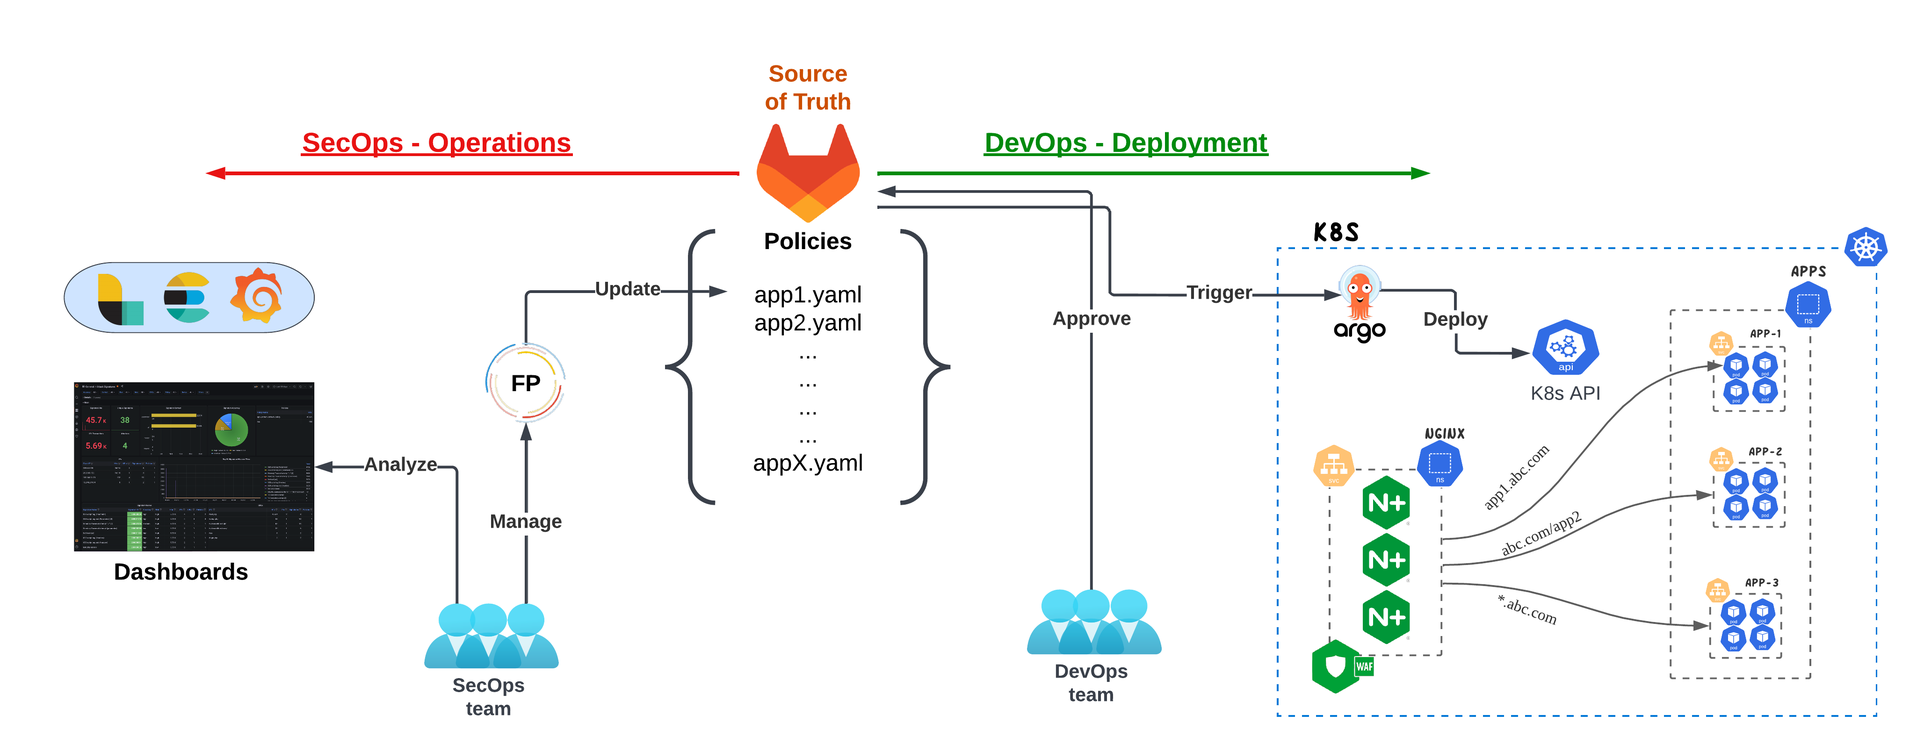
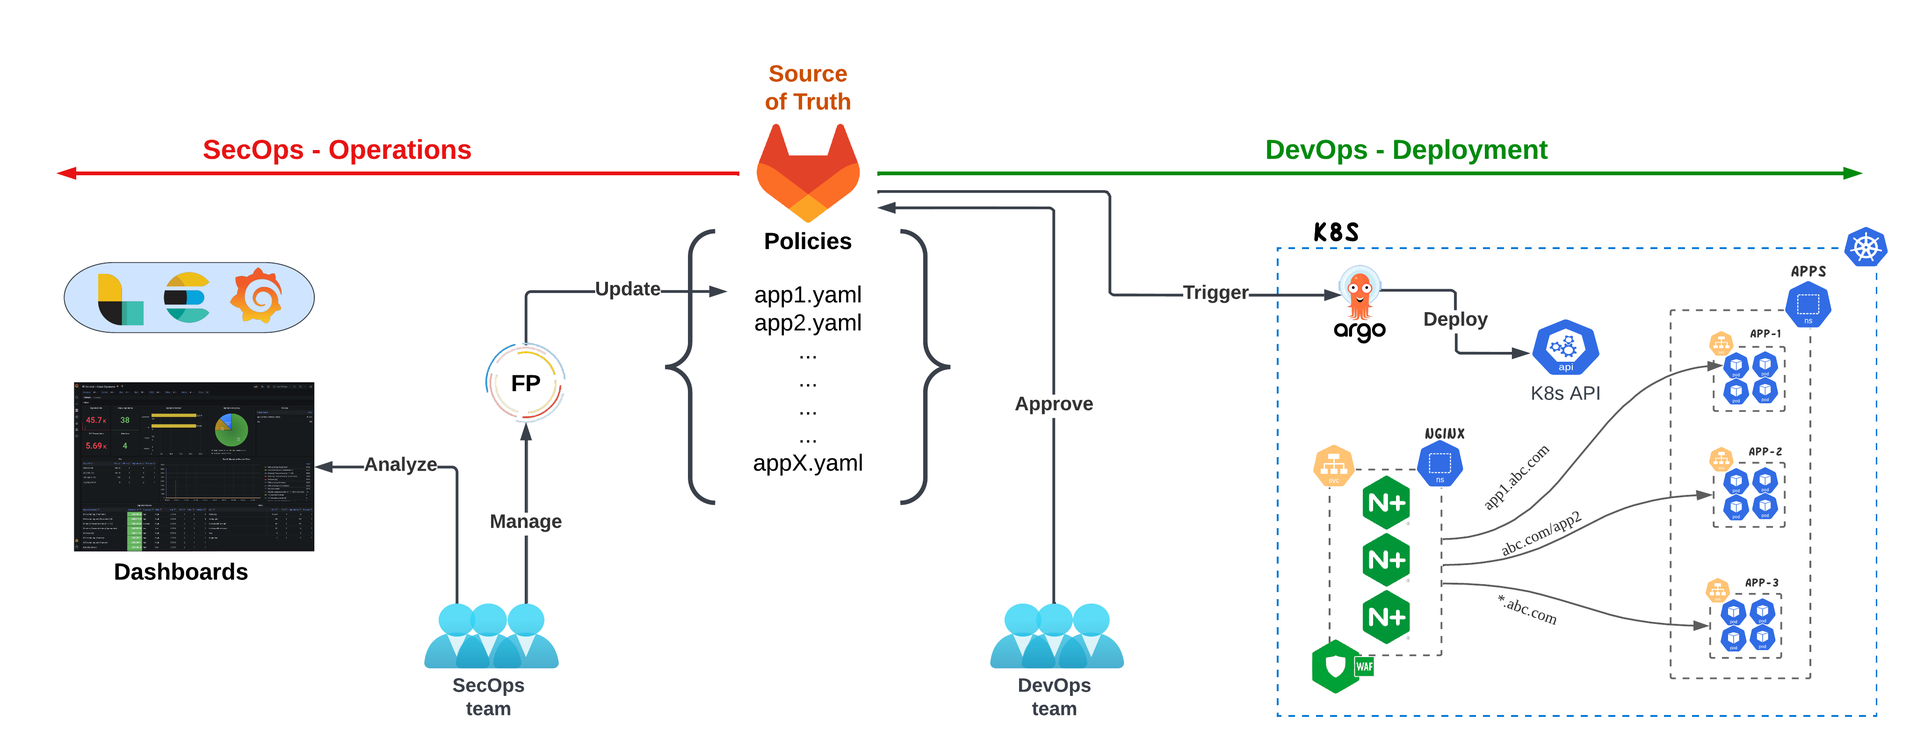
update nap use-cases

diff --git a/use-cases/app-protect/devsecops-k8s/README.md b/use-cases/app-protect/devsecops-k8s/README.md
@@ -1,25 +1,29 @@
-# (Work in progress) Building an infrastructure for DevSecOps with NGINX Ingress Controller
-With more and more application workloads moving into Kubernetes, creating an agile, flexible, /multi-cloud (cluster) infrastructure, orginizations are looking into moving also the Web Application Firewall (WAF) security controls inside the Kubernetes environment. This would allow them to continue their modernization journey without compromising security. 
-What we are seeing as a common practice in Medium/Large orginizations that are adapting this strategy is to have the SecOps and the DevOps teams work closer together, but each team maintains their own goals and responsibilities.  
+# Building a DevSecOps infrastructure with NGINX Ingress Controller
+With more and more application workloads moving into Kubernetes, organizations are looking into moving also their security controls, inlcuding Web Application Firewall (WAF), inside the Kubernetes environment. This would allow them to continue their modernization journey, creating an agile, elastic and distributed infrastructure without compromising security. 
+In order to achieve this, organizations are having the SecOps and DevOps teams working closer together, each team maintaining their own goals and responsibilities  
 
-SecOps responsibilities in terms of the WAF policies are:
+SecOps responsibilities are:
 - Identifying the security controls required by the applications.
-- Creating different secrity templates based on the security controls.
 - Maintaining/Managing the policies that have been applied in production.
+- Creating WAF templates based on the selected security controls that the devops teams can consume.
 
-DevOps responsibilities in terms of the WAF policies are:
+DevOps responsibilities are:
 - Consume the security templates as a service.
 - Include the security policies as part of their code.
-- Include the security policies as part of their CI/CD lifecycle.
+- Maintain the same speed and agility, by integrating the security policies on the CI/CD pipelines.
+
+## Table of Contents 
+- [**Required Components**](#required-components)
+- [**Demo**](#demo)
 
 
-## What is required?
-In order to build an infrastructure that can accomodate for both SecOps and DevOps personas, we will need the following:
+## Required Components
+In order to build an infrastructure that can accomodate for both SecOps and DevOps, we will need the following:
 
+- Ingress Controller with Web Application Firewall module
 - Git repository 
 - Observability Platform
 - Policy Management Process
-- NGINX Ingress Controller with App Protect enabled.
 - CI/CD tool(s)
 
 <p align="center">
@@ -27,38 +31,53 @@ In order to build an infrastructure that can accomodate for both SecOps and DevO
 </p>
 
 
-### Git repository
-Git will be utilized as the single **source of truth** where the SecOps and DevOps will store their code. Git will be used as a way to track code/version changes in the code, allow the teams (SecOps & DevOps)  to work together through reviews and comments on Merge Requests and also provide an audit log where all assignees and reviewers are indicated. 
+### Ingress Controller with WAF
+Ingress Controller (IC) is the gateway to the applications that live inside the Kubernetes platform. Whether it is Ingress, Routes, or custom resources like VirtualServer and VirtualServerRoute, Ingress Controller is most common way to achieve application traffic routing and provide a bridge between Kubernetes services and external ones.
+Having a WAF enabled on the Ingress controller layer, is the most effient way to apply the security controls inside Kubernetes   
 
-In our environment we are using GitLab. The design is fairly straightforward as we will maintain one repository for the NGINX App Protect resources and a separate repository for each application, that will include resources like Deployments, Services, Ingress Rules, Configmaps, etc.  
-For our Demo we will use the following two repositories:
-
-- **devsecops/nap** for the NAP resources
-- **devsecops/cafe** for the Application resources
-
-### Monitoring security events
-We have deployed Logstash/Elastic/Grafana to build a observability dashboard for the NAP events. All the NGINX App Protect instances will send their events/logs to the observability platform so that the SecOps teams can have a single Dashboard that they can monitor all the security events.
+In our environment we will be using NGINX App Protect WAF module, that can be configured as part of Ingress Resources (via an Annotation) or as pat of Custom Resources (VirtualServer, VirtualServerRoute). 
 
 <p align="center">
-  <img src="images/dashboard.png" style="width:90%">
+  <img src="images/nap-on-k8s.png" style="width:50%">
+</p>
+
+
+
+### Git repository
+Git should be utilized as the single **source of truth** where the SecOps and DevOps will store their respective code. Git is the most popular and widely used version control system today. It has many benefits like code changes can be easily committed, version branches can be effortlessly compared and merged, and code can also be optimized to perform better. 
+Git would enable the DevOps and SecOps team to work better and closer together by:
+- Allowing them to track changes in their code, 
+- Review, comment and approve with Merge Requests
+- Provide an audit log where all assignees and reviewers are indicated. 
+
+
+### Observabilty platform
+Building an observability platform is essential for managing a Web application Firewall solution. The data collected from the Ingress Controller pods can help the SecOps teams determine the threats/risks assosiated with the published applications.
+For our demo we deployed Logstash/Elastic/Grafana to build the observability platform for the NGINX App Protect. All the NAP pod instances will send their events/logs to the observability platform so that the SecOps teams can have a single Dashboard that they can monitor all the security events.
+
+<p align="center">
+  <img src="images/dashboard.png" style="width:70%">
 </p>
 
 More information regarding NAP Grafana Dashboard can be found on the [**NAP Dashboard**](https://github.com/F5EMEA/oltra/tree/main/use-cases/app-protect/monitoring) lab
 
+
 ### Managing NAP policies
-An important part of the WAF policy lifecycle, is managing potential False Positives (FP). Although NAP’s algorithms try to minimize the chance that we would have false positive in our production environments it is always a possibility that the SecOps teams need to be prepared for.
-The Grafana operational Dashboards through its aggregation and visualization provide to the SecOps teams an easy and quick way to identify any false positives.
+An important part of the WAF policy lifecycle, is managing potential False Positives. Although NAP’s algorithms try to minimize the chance that we would have false positives in our production environments it is always a possibility that the SecOps teams need to be prepared for.
+The observability platform plays a critical role on assisting the SecOps teams to identify false positives, by aggregating and visualizating the metrics/events that are collected from the multiple NAP Pods.
+
 To convert a violation into a false positive exception on the NAP configurations, the SecOps teams have to modify the NAP policy with the required YAML key/value pairs. The example below shows how a policy needs to be modified to exclude particular signatures from a policy.
 
 <p align="center">
   <img src="images/policy-modify.png" style="width:70%">
 </p>
 
-There are mulitple ways that the NAP policies can be fine-tuned based on the events that have been Blocked/Alarmed.
-- **Manual**. SecOps teams can edit the JSON/YAML files that are stored on GitLab
-- **Automation**. Tools like Ansible, Jenkins and many others can enable the SecOps team to insert the required changes (like disabled a signatureID) into the YAML files stored on GitLab
-- **OpenSource**. The other alternative is to develop or use an opensource tool that is designed specifically for modifying NAP policies based on the recorded events. In this demo we will use an Opensource tool, NAP-FPM to modify the policies. Details on this tool can be found on the following repository [**NAP Policy Management**](https://github.com/f5devcentral/nap-policy-management).  
+There are mulitple ways for the NAP policies to be fine-tuned based on the events that have been Blocked/Alarmed. Some of the common ways are:
+- **Manual**. SecOps teams can edit manually the JSON/YAML files that are stored on GitLab.
+- **Automated**. Tools like Ansible, Puppet, Terraform and many others can provide an automated procedure for the SecOps to make the necessary changes on the YAML policies stored on GitLab
+- **Purpose-built**. The other alternative is to develop or use an opensource project that is designed specifically for modifying NAP policies based on the recorded events. 
 
+In this demo we will be using a purpose-built opensource project, NAP-FPM, to modify the policies. Details on this project can be found on the following repository [**NAP Policy Management**](https://github.com/f5devcentral/nap-policy-management).  
 
 This project has a simple UI build on PHP, that retrieves the violation log from Elasticsearch based on the SupportID requested and presents the user the summary of the event
  
@@ -66,31 +85,24 @@ This project has a simple UI build on PHP, that retrieves the violation log from
   <img src="images/fpm.png" style="width:60%">
 </p>
 
-Depending on the violations that were identified on the violation log, the tool provides the user with the option of executing preconfigured actions, of example `Disable Signature`, `Disable Signature on URL`.
-Once the user confirms the details and sends the required information to the application endpoint, that will execute the required changes.
+Depending on the violations that were identified on the NAP log, the tool provides the user predefined actions for disabling these violations. For example, as seen on the above picture, `Disable Signature` and `Disable Signature on URL`.
 
 <p align="center">
-  <img src="images/fpm2.png" style="width:40%">
+  <img src="images/fpm-false.png" style="width:40%">
 </p>
 
-The application is configured to pull the current policy from GitLab, make the required changes on the policy’s YAML file and save it back to GitLab.
-
-### NGINX Ingress Controller with App Protect enabled.
-NGINX App Protect WAF module can be configured on the Custom Resources (VirtualServer, VirtualServerRoute) or on the Ingress-resources. In our example we will be using VirtualServer custom resources. The NGINX custom resources (VirtualServer, Policy) along with the application Deployment and Service will be configured on the `devops` namespace while the WAF resources APPolicy, APLogConf will be configured on the `secops` namespace. The NGINX Policy is able to work with APPolicy and APlogConf cross-namespaces.
-
-<p align="center">
-  <img src="images/namespaces.png" style="width:80%">
-</p>
+Once the user confirms the details and the tool is configured to pull the current policy from GitLab, make the required changes on the policy’s YAML file and save it back to GitLab.
 
 
 ### CI/CD tool
-Each customer is using different methodologies and potentially different tools to implent their CI/CD pipelines. In our case, since we are not doing any intergations, testing, approval flows, etc that would require a CI tool, we are using Argo CD for the Continuous Delivery.
-Argo CD is implemented as a kubernetes controller which continuously monitors running applications and compares the current, live state against the desired target state (as specified in the Git repo). Any modifications made to the desired target state in the Git repo can be automatically applied and reflected in the target Kubernetes environments.
+Each customer is using different methodologies and potentially different tools to implent their CI/CD pipelines. In our demo, we are mainly interested to reflect any modifications made to the 2 repositories (**devsecops/nap** and **devsecops/apps**) to the Kubernetes environment.
+For this task, we will be using Argo CD. Argo CD is implemented as a kubernetes controller which continuously monitors running applications and compares the current, live state against the desired target state (as specified in the Git repo). Any modifications made to the desired target state in the Git repo can be automatically applied and reflected in the target Kubernetes environments.
 With Argo CD we can overwrite any configuration drift, manual changes, and/or errors, ensuring that the environment converges on the state as defined in Git.
 
 <p align="center">
   <img src="images/argocd-ui.gif" style="width:70%">
 </p>
+
 
 
 ## Demo
@@ -99,12 +111,37 @@ In order to successfully go through the demo below, we suggest you first complet
 - [**Argo CD**](https://github.com/F5EMEA/oltra/tree/main/use-cases/app-protect/argocd)
 
 
-### Initial Deployment
-Currently all Kubernetes manifests have been configured on the 2 repositories. 
-- **devsecops/nap**
-- **devsecops/cafe**
+### 1. Reviewing the manifests stored in GitLab 
+In our environment we are using GitLab. The design is fairly straightforward and it is based on two repositories. The first repository will be for the NGINX App Protect resources (APPolicy, APLogConf) where the SecOps team will be resposible for and the second repository will be for the application resources (Deployments, Services, Ingress Rules, Configmaps, etc.) where the DecOps team will be resposible for.
+The following two repositories will be used:
 
-> You can review the files by logging on to GitLab. 
+- **devsecops/nap** for the NAP resources
+- **devsecops/apps** for the Application resources
+
+We will be using VirtualServer CR. The NGINX custom resources (VirtualServer, Policy) along with the application Deployment and Service will be configured on the `apps` namespace while the WAF resources `APPolicy`, `APLogConf` will be configured on the `secops` namespace. The NGINX Policy is able to work with `APPolicy` and `APlogConf` cross-namespaces.
+
+<p align="center">
+  <img src="images/namespaces.png" style="width:70%">
+</p>
+
+
+Currently all Kubernetes manifests have been configured on the 2 repositories. 
+
+1. Log on to GitLab and review the manifests for both repos. 
+
+<p align="center">
+  <img src="images/nap-gitlab.gif" style="width:70%">
+</p>
+
+
+2. Verify that a GitLab webhook is already configured to notify Argo CD for any changes on the code.  
+Go to repository under **Settings** -> **Webhooks** and scroll to the end. You should see a webhook already created for Argo CD (`https://10.1.10.18/api/webhook`)  
+
+<p align="center">
+  <img src="images/webhook.png" style="width:70%">
+</p>
+
+### 2. Continuous Deployment with ArgoCD 
 
 1. First we will deploy the NAP policies to Kubernetes. To do that we will create a new application on Argo CD for the **devsecops/nap** repository.
 
@@ -120,25 +157,26 @@ Currently all Kubernetes manifests have been configured on the 2 repositories.
   - Cluster URL -> **https://kubernetes.default.svc**
   - Namespace  -> **secops**
 
-    Press `Create` and wait to see that the Argo CD application being created.
+  Press `Create` and wait to see that the Argo CD application being created.
 
 <p align="center">
-  <img src="images/argocd-ui.gif" style="width:70%">
+  <img src="images/nap-argo.gif" style="width:70%">
 </p>
 
-2. Secondly we will deploy the Application/Ingress manifests to Kubernetes. To do that we will create a new application on Argo CD for the **devsecops/nap** repository.
+
+2. Then we will deploy the Application manifests. To do that we will create a new application on Argo CD for the **devsecops/apps** repository.
 
   Find below the information that needs to inserted in the form. 
   
-  - Application Name -> **nap-policies**
+  - Application Name -> **apps**
   - Project -> **default**
   - Sync Policy -> **Automatic**
   - Prune Resources -> **Enabled**
-  - Repository URL -> **https://git.f5demo.cloud/devsecops/cafe.git**
+  - Repository URL -> **https://git.f5demo.cloud/devsecops/apps.git**
   - Revision -> **HEAD**
   - Path -> **.**
   - Cluster URL -> **https://kubernetes.default.svc**
-  - Namespace  -> **devops**
+  - Namespace  -> **apps**
 
     Press `Create` and wait to see that the Argo CD application being created.
 
@@ -150,9 +188,9 @@ Currently all Kubernetes manifests have been configured on the 2 repositories.
 3. Verify that you can succesfully access the application. Go to VSCode and run the following commands
 
 ```
-curl "http://cafe.f5demo.cloud/tea/"
-curl "http://cafe.f5demo.cloud/coffee/"
-curl "http://cafe.f5demo.cloud/"
+curl "http://portal.f5demo.cloud/tea/"
+curl "http://portal.f5demo.cloud/coffee/"
+curl "http://portal.f5demo.cloud/"
 
 ###############################################################
 #####################  EXPECTED OUTPUT  #######################
@@ -166,108 +204,97 @@ Request ID: 0495d6a17797ea9776120d5f4af10c1a
 
 
 ### Running Malicious requests against the application
-Run the following commands to execute some malicious requests towards the website.
+1. Run the following commands to execute some malicious requests towards the website.
 
 ```
-curl "http://cafe.f5demo.cloud/index.php?password=0%22%20or%201%3D1%20%22%0A"
-curl "http://cafe.f5demo.cloud/tea/index.php?password==0'%20or%205=5'"
-curl "http://cafe.f5demo.cloud/tea/index.php?id=%'%20or%200=0%20union%20select%20null,%20version()%23"
-curl "http://cafe.f5demo.cloud/index.php?username=<script>"
-curl "http://cafe.f5demo.cloud/coffee/index.php?id=0;%20ls%20-l"
-curl "http://cafe.f5demo.cloud/index.php?password=0%22%20or%201%3D1%20%22%0A"
-curl "http://cafe.f5demo.cloud/index.php?password==0'%20or%201=1'"
-curl "http://cafe.f5demo.cloud/coffee/index.php?id=%'%20or%200=0%20union%20select%20null,%20version()%23"
-curl "http://cafe.f5demo.cloud/index.php?username=<script>"
-curl "http://cafe.f5demo.cloud/index.php?id=0;%20ls%20-l"
-curl "http://cafe.f5demo.cloud/index.php?password=0%22%20or%201%3D1%20%22%0A"
-curl "http://cafe.f5demo.cloud/tea/index.php?password==0'%20or%205=5'"
-curl "http://cafe.f5demo.cloud/tea/index.php?id=%'%20or%200=0%20union%20select%20null,%20version()%23"
-curl "http://cafe.f5demo.cloud/index.php?username=<script>"
-curl "http://cafe.f5demo.cloud/coffee/index.php?id=0;%20ls%20-l"
-curl "http://cafe.f5demo.cloud/index.php?password=0%22%20or%201%3D1%20%22%0A"
-curl "http://cafe.f5demo.cloud/index.php?password==0'%20or%201=1'"
-curl "http://cafe.f5demo.cloud/coffee/index.php?id=%'%20or%200=0%20union%20select%20null,%20version()%23"
-curl "http://cafe.f5demo.cloud/index.php?username=<script>"
-curl "http://cafe.f5demo.cloud/index.php?id=0;%20ls%20-l"
+curl "http://portal.f5demo.cloud/index.php?password=0%22%20or%201%3D1%20%22%0A"
+curl "http://portal.f5demo.cloud/tea/index.php?password==0'%20or%205=5'"
+curl "http://portal.f5demo.cloud/tea/index.php?id=%'%20or%200=0%20union%20select%20null,%20version()%23"
+curl "http://portal.f5demo.cloud/index.php?username=<script>"
+curl "http://portal.f5demo.cloud/coffee/index.php?id=0;%20ls%20-l"
+curl "http://portal.f5demo.cloud/index.php?password=0%22%20or%201%3D1%20%22%0A"
+curl "http://portal.f5demo.cloud/index.php?password==0'%20or%201=1'"
+curl "http://portal.f5demo.cloud/coffee/index.php?id=%'%20or%200=0%20union%20select%20null,%20version()%23"
+curl "http://portal.f5demo.cloud/index.php?username=<script>"
+curl "http://portal.f5demo.cloud/index.php?id=0;%20ls%20-l"
+curl "http://portal.f5demo.cloud/index.php?password=0%22%20or%201%3D1%20%22%0A"
+curl "http://portal.f5demo.cloud/tea/index.php?password==0'%20or%205=5'"
+curl "http://portal.f5demo.cloud/tea/index.php?id=%'%20or%200=0%20union%20select%20null,%20version()%23"
+curl "http://portal.f5demo.cloud/index.php?username=<script>"
+curl "http://portal.f5demo.cloud/coffee/index.php?id=0;%20ls%20-l"
+curl "http://portal.f5demo.cloud/index.php?password=0%22%20or%201%3D1%20%22%0A"
+curl "http://portal.f5demo.cloud/index.php?password==0'%20or%201=1'"
+curl "http://portal.f5demo.cloud/coffee/index.php?id=%'%20or%200=0%20union%20select%20null,%20version()%23"
+curl "http://portal.f5demo.cloud/index.php?username=<script>"
+curl "http://portal.f5demo.cloud/index.php?id=0;%20ls%20-l"
 ```
 
-Login to Grafana and review the above violations.
+2. Login to Grafana and review the above violations.
 
 ### Managing False Positives
 
-We will execute some requests that will appear as a `False Positives` to NGINX App Protect. 
-
-The first request is accessing a URL that matches a known signature (phpinfo) and it is consider as `Medium Accuracy` Signature, while the second request is sending a Header name with no header value on a GET request that violates the HTTP Protocol Compliance.
+Now we will execute some requests that will be blocked by NGINX App Protect but are considered as `False Positives` by the secuirty teams.  The first request is accessing a URL that matches a known signature (phpinfo) and it is consider as `Medium Accuracy` Signature, while the second request is sending a Header name with no header value on a GET request that violates the HTTP Protocol Compliance.
 
 
-Run the following command.
+1. Run the following command.
 ```
-curl "http://cafe.f5demo.cloud/phpinfo.php"
+curl "http://portal.f5demo.cloud/phpinfo.php"
 ```
 
-The expected output is:
+2. The expected output is:
 ```
 <html><head><title>Request Rejected</title></head><body>
 The requested URL was rejected. Please consult with your administrator.<br><br>
-Your support ID is: 4045204596866416688<br><br>
+Your support ID is: 4045204596866416688 <br><br>
 <a href='javascript:history.back();'>[Go Back]</a></body></html>
 ```
 
-Assuming this is a `False Positive` we will use the NAP-FPM tool to modify the policy.
+Assuming this is a `False Positive` we will use the NAP-FPM UI to modify the policy.
 
-To access the tooll.....
-
-Login to the False Positive Management tool (Credentials: **admin/Ingresslab123**)....
+3. Login to the False Positive Management tool (Credentials: **admin/Ingresslab123**). NAP-FPM UI can be found under `docker` on the `Access` drop-down menu.
 
 <p align="center">
-  <img src="images/fpm-login.gif" style="width:70%">
+  <img src="images/fpm-login.png" style="width:45%">
 </p>
 
-Search with the supportID.
+4. Search with the supportID.
 <p align="center">
-  <img src="images/supportID.gif" style="width:70%">
+  <img src="images/fpm-supportid.png" style="width:45%">
 </p>
 
-Review the violation Details
+5. Review the violation Details
 <p align="center">
-  <img src="images/supportID.gif" style="width:70%">
+  <img src="images/fpm-attack.png" style="width:60%">
 </p>
 
-
-Expand Attack signature details and select `Disable Signature`.
+6. Expand Attack signature details and select `Disable Signature`.
 <p align="center">
-  <img src="images/supportID.gif" style="width:70%">
+  <img src="images/fpm-expand.png" style="width:50%">
 </p>
 
-Enter the Commit message, select the repository and apply the changes. 
+7. Enter the Commit message, select the repository and apply the changes. 
 <p align="center">
-  <img src="images/supportID.gif" style="width:70%">
+  <img src="images/fpm-commit.png" style="width:55%">
 </p>
 
-Make sure that you received `Success` message.
+Make sure that you received `Success` message when you apply the changes. 
 
-Then open GitLab go to  **devsecops/nap** repository. Open `cocoa.yml` and review the **Cocoa** NAP policy.
-Verify that the Signature 123123123 has been disabled.
-<p align="center">
-  <img src="images/supportID.gif" style="width:70%">
-</p>
+8. Log on to GitLab, go to  **devsecops/nap** repository and review the **Portal** NAP policy (`portal.yaml`). Verify that the Signature ***200010015*** has been disabled.
 
-Run again the malicious payload and verify that NAP is not blocking this request. 
-
-
-Repeat the same process but with a different False positive.
+9. Run again the same transaction and verify that NAP is not blocking this request. 
 ```
-curl "http://cafe.f5demo.cloud/index.php" -H "Header1:"
+curl "http://portal.f5demo.cloud/phpinfo.php"
 ```
 
-Search with the supportID to find this particular transaction and then select `Disable` on the Violation section.
-<p align="center">
-  <img src="images/supportID.gif" style="width:70%">
-</p>
+10. Repeat the same process but with a different False positive.
+  ```
+  curl "http://portal.f5demo.cloud/index.php" -H "Header1;"
+  ```
 
-Once the change has been deployed re-run the transaction and verify that now it is not getting blocked from NAP.
+11. Search with the supportID to find this particular transaction and then select `Disable` on the Violation section.
 
+12. Once the change has been deployed re-run the transaction and verify that now it is not getting blocked from NAP.
 ```
-curl "http://cafe.f5demo.cloud/index.php" -H "Header1:"
+curl "http://portal.f5demo.cloud/index.php" -H "Header1;"
 ```
 
